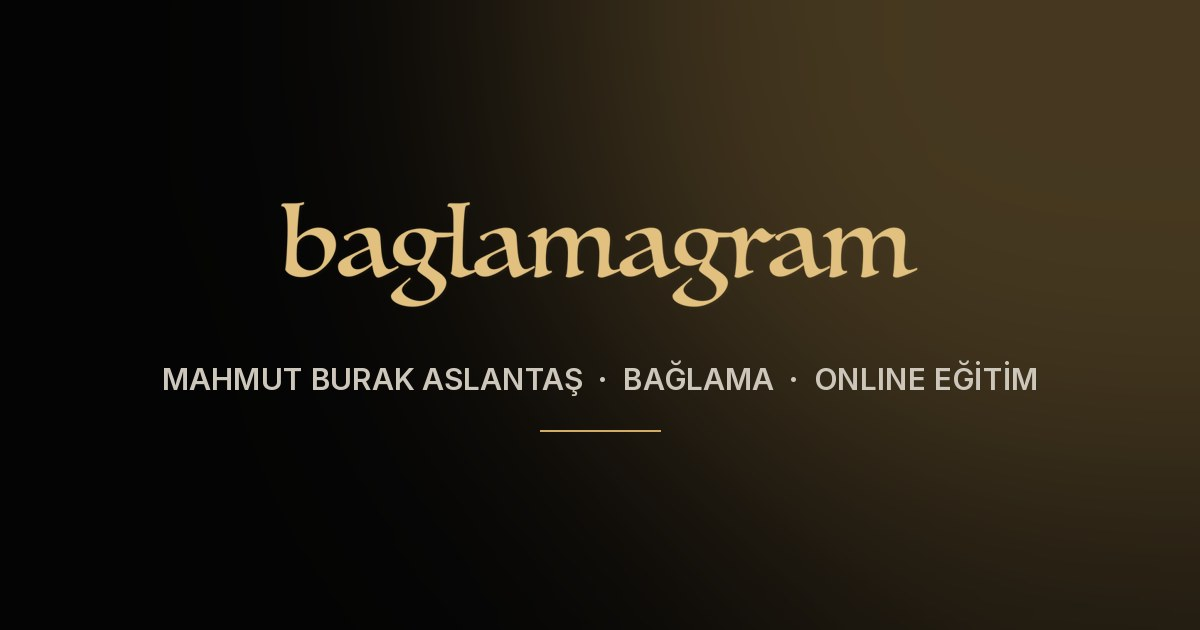
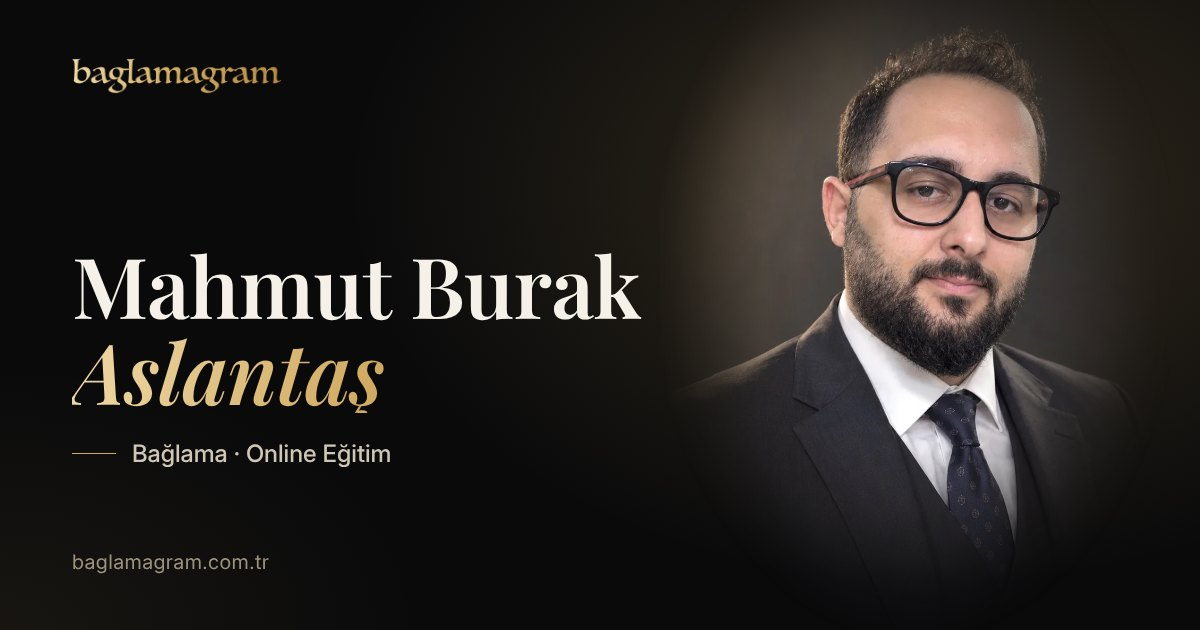
Fotoğraflar ve konser afişleri siteye taşındı; ana sayfa portresi, sayaç şeridinde online dersin artıları
- Ana sayfa: yelekli-kravatlı portre çerçevede, kenarları saydam; üstteki etiket satırı kaldırıldı
- 20+ ve 10+ kaldırıldı; 500+ solda, sağında online dersin üç artısı (4 dil)
- Hakkında: bağlamalı siyah-beyaz fotoğraf (görseldeki 'Lorem Ipsum' yazısı temizlendi); TRT Gençlik Korosu (2024)
- Konserler: 5 afiş yerelde (WebP, iki boyut), geçmiş konserlerde tarih
- Paylaşım görseli (og.jpg) portreyle yenilendi
- Telefonda çerçeveli kutular artık ekran kenarına yapışmıyor

Claude-Session: https://claude.ai/code/session_01Na55R1es2Cb35B1uihy8Qf

diff --git a/site/src/data/about.ts b/site/src/data/about.ts
@@ -5,6 +5,7 @@ type About = {
   title: string;
   p: string[];
   careerTitle: string;
+  photoAlt: string;
   career: [string, string][];
   projectsTitle: string;
   projects: [string, string][];
@@ -17,13 +18,14 @@ export const BIRTH = '2002-02-08';
 export const ABOUT: Record<Lang, About> = {
   tr: {
     title: 'Hakkında',
+    photoAlt: 'Mahmut Burak Aslantaş bağlama çalarken',
     p: [
       'Mahmut Burak Aslantaş, 8 Şubat 2002’de Birecik’te dünyaya gelmiştir ve {age} yaşındadır. Müzik yolculuğuna çocuk yaşlarında halk eğitim merkezinde bağlama ile başlamıştır. Lise eğitimini Mehmet Adil Çulcuoğlu Anadolu Lisesi’nde tamamlamış, 2021 yılında Aydın Adnan Menderes Üniversitesi Müzik Öğretmenliği bölümünü kazanmıştır. Öğrencilik yıllarında okulun pek çok projesinde ve konserinde yer almıştır.',
       '2024 yılında TRT Türk Halk Müziği Gençlik Korosu’na bağlama icracısı olarak katılmıştır. 14 Kasım 2025’te TRT Türkü’de yayınlanan “Genç Nesilden Türküler” programına konuk sanatçı olarak katılmış, 17 Aralık 2025’te piyanist Elzė Markevičiūtė ile “East to West” projesinin ilk konserini vermiştir. Aslantaş müziği yalnızca bir ses dizisi olarak değil, kültürler arasında bir köprü olarak görür. Amatör olarak şiirle de uğraşan Aslantaş, şarkı sözü ve yeni besteler üzerinde çalışmalarını sürdürmektedir.',
     ],
     careerTitle: 'Kariyer özeti',
     career: [
-      ['TRT Gençlik Korosu', 'Bağlama icracısı olarak koro bünyesinde aktif görev.'],
+      ['TRT Gençlik Korosu (2024)', 'Bağlama icracısı olarak koro bünyesinde aktif görev.'],
       ['Katıldığı programlar', 'TRT Türkü “Genç Nesilden Türküler”: 17 Mayıs 2025 (orkestra) ve 14 Kasım 2025 (konuk sanatçı); “Türkülerin Genç Yıldızları” (8 Mart 2026).'],
     ],
     projectsTitle: 'Sanat projeleri',
@@ -42,13 +44,14 @@ export const ABOUT: Record<Lang, About> = {
   },
   en: {
     title: 'About',
+    photoAlt: 'Mahmut Burak Aslantaş playing the bağlama',
     p: [
       'Mahmut Burak Aslantaş was born on 8 February 2002 in Birecik and is {age} years old. He began his musical journey on the bağlama as a child at a public education centre. He finished high school at Mehmet Adil Çulcuoğlu Anatolian High School and in 2021 was admitted to the Music Teacher Education programme at Aydın Adnan Menderes University. As a student he took part in many of the university’s projects and concerts.',
       'In 2024 he joined the TRT Turkish Folk Music Youth Choir as a bağlama player. On 14 November 2025 he appeared as a guest artist on “Songs from the Young Generation” on TRT Türkü, and on 17 December 2025 he gave the first concert of the “East to West” project with pianist Elzė Markevičiūtė. Aslantaş sees music not merely as a sequence of sounds but as a bridge between cultures. He also writes poetry as an amateur and continues to work on lyrics and new compositions.',
     ],
     careerTitle: 'Career summary',
     career: [
-      ['TRT Youth Choir', 'Active member of the choir as a bağlama player.'],
+      ['TRT Youth Choir (2024)', 'Active member of the choir as a bağlama player.'],
       ['TV programmes', 'TRT Türkü “Songs from the Young Generation”: 17 May 2025 (orchestra) and 14 November 2025 (guest artist); “Young Stars of Türkü” (8 March 2026).'],
     ],
     projectsTitle: 'Art projects',
@@ -67,13 +70,14 @@ export const ABOUT: Record<Lang, About> = {
   },
   de: {
     title: 'Über mich',
+    photoAlt: 'Mahmut Burak Aslantaş an der Bağlama',
     p: [
       'Mahmut Burak Aslantaş wurde am 8. Februar 2002 in Birecik geboren und ist {age} Jahre alt. Seine musikalische Reise begann er als Kind an einem Volksbildungszentrum mit der Bağlama. Das Abitur machte er am Mehmet-Adil-Çulcuoğlu-Gymnasium, 2021 wurde er im Studiengang Musiklehramt an der Aydın-Adnan-Menderes-Universität aufgenommen. Während des Studiums wirkte er bei vielen Projekten und Konzerten der Universität mit.',
       '2024 trat er dem TRT-Jugendchor für türkische Volksmusik als Bağlama-Spieler bei. Am 14. November 2025 war er Gastkünstler in der Sendung „Lieder der jungen Generation“ auf TRT Türkü, am 17. Dezember 2025 gab er mit der Pianistin Elzė Markevičiūtė das erste Konzert des Projekts „East to West“. Für Aslantaş ist Musik nicht bloß eine Abfolge von Tönen, sondern eine Brücke zwischen den Kulturen. Er schreibt außerdem als Amateur Gedichte und arbeitet weiter an Liedtexten und neuen Kompositionen.',
     ],
     careerTitle: 'Werdegang',
     career: [
-      ['TRT-Jugendchor', 'Aktives Mitglied des Chors als Bağlama-Spieler.'],
+      ['TRT-Jugendchor (2024)', 'Aktives Mitglied des Chors als Bağlama-Spieler.'],
       ['Fernsehsendungen', 'TRT Türkü „Lieder der jungen Generation“: 17. Mai 2025 (Orchester) und 14. November 2025 (Gastkünstler); „Junge Stars des Türkü“ (8. März 2026).'],
     ],
     projectsTitle: 'Kunstprojekte',
@@ -92,13 +96,14 @@ export const ABOUT: Record<Lang, About> = {
   },
   ru: {
     title: 'Обо мне',
+    photoAlt: 'Махмут Бурак Асланташ играет на багламе',
     p: [
       'Махмут Бурак Асланташ родился 8 февраля 2002 года в Биреджике; ему {age}. Музыкальный путь он начал ребёнком — с багламы в центре народного образования. Окончил Анатолийский лицей имени Мехмета Адиля Чулджуоглу, а в 2021 году поступил на отделение музыкальной педагогики Университета Айдын Аднан Мендерес. В студенческие годы участвовал во многих проектах и концертах университета.',
       'В 2024 году он вошёл в Молодёжный хор турецкой народной музыки TRT как исполнитель на багламе. 14 ноября 2025 года выступил приглашённым артистом в программе «Песни молодого поколения» на TRT Türkü, а 17 декабря 2025 года вместе с пианисткой Эльзе Маркевичюте дал первый концерт проекта «East to West». Для Асланташа музыка — не просто последовательность звуков, а мост между культурами. Он также пишет стихи как любитель и продолжает работать над текстами песен и новыми композициями.',
     ],
     careerTitle: 'Карьера',
     career: [
-      ['Молодёжный хор TRT', 'Постоянный участник хора как исполнитель на багламе.'],
+      ['Молодёжный хор TRT (2024)', 'Постоянный участник хора как исполнитель на багламе.'],
       ['Телепрограммы', 'TRT Türkü «Песни молодого поколения»: 17 мая 2025 (оркестр) и 14 ноября 2025 (приглашённый артист); «Молодые звёзды тюркю» (8 марта 2026).'],
     ],
     projectsTitle: 'Творческие проекты',

diff --git a/site/src/i18n/ui.ts b/site/src/i18n/ui.ts
@@ -36,15 +36,18 @@ const tr = {
   'common.playVideo': 'Videoyu oynat',
 
   // Ana sayfa
-  'home.eyebrow': 'Bağlama · Türk Halk Müziği · Müzik Eğitimi',
   'home.quote': 'Sanatsız kalan bir milletin hayat damarlarından biri kopmuş demektir.',
   'home.quoteAuthor': 'Mustafa Kemal Atatürk',
   'home.ctaEdu': 'Online Eğitime Başla',
   'home.ctaConcerts': 'Konserleri Keşfet',
   'home.badge': 'TRT THM Gençlik Korosu',
   'home.stat.lessons': 'saat online ders',
-  'home.stat.works': 'özgün eser ve şiir',
-  'home.stat.stage': 'sahne performansı',
+  'home.why.1.t': 'Yol yok, zaman kaybı yok',
+  'home.why.1.d': 'Ders evinde; yolda geçecek vakit çalışmaya kalır.',
+  'home.why.2.t': 'Nerede olursan ol',
+  'home.why.2.d': 'Türkiye’den ya da yurt dışından, internet olan her yerden katıl.',
+  'home.why.3.t': 'Sana göre program',
+  'home.why.3.d': 'Ders saatini birlikte seçeriz, tempoyu sen belirlersin.',
   'home.edu.eyebrow': 'Online Eğitim',
   'home.edu.title': 'Bağlamayı evinden, ustasından öğren',
   'home.edu.text': 'Birebir ve grup dersleri, ödev kayıtları, ders tekrarları, pratik araçları ve kulak eğitimi oyunları tek bir yerde. Telefonda uygulamadan, bilgisayarda web’den.',
@@ -195,15 +198,18 @@ const en: Dict = {
   'common.noResult': 'No results found.',
   'common.onlyTurkish': 'This content is in Turkish.',
   'common.playVideo': 'Play video',
-  'home.eyebrow': 'Bağlama · Turkish Folk Music · Music Education',
   'home.quote': 'A nation that has lost its art has lost one of its lifelines.',
   'home.quoteAuthor': 'Mustafa Kemal Atatürk',
   'home.ctaEdu': 'Start Online Lessons',
   'home.ctaConcerts': 'Discover Concerts',
   'home.badge': 'TRT Turkish Folk Music Youth Choir',
   'home.stat.lessons': 'hours of online lessons',
-  'home.stat.works': 'original works and poems',
-  'home.stat.stage': 'stage performances',
+  'home.why.1.t': 'No commute, no lost time',
+  'home.why.1.d': 'Lessons at home; the time you’d spend on the road goes into practice.',
+  'home.why.2.t': 'Wherever you are',
+  'home.why.2.d': 'Join from Türkiye or abroad, anywhere with an internet connection.',
+  'home.why.3.t': 'A schedule that fits you',
+  'home.why.3.d': 'We choose the lesson times together; you set the pace.',
   'home.edu.eyebrow': 'Online Lessons',
   'home.edu.title': 'Learn the bağlama from home, from a master',
   'home.edu.text': 'One-to-one and group lessons, homework recordings, lesson replays, practice tools and ear-training games in one place. In the app on your phone, on the web on your computer.',
@@ -343,15 +349,18 @@ const de: Dict = {
   'common.noResult': 'Keine Ergebnisse gefunden.',
   'common.onlyTurkish': 'Dieser Inhalt ist auf Türkisch.',
   'common.playVideo': 'Video abspielen',
-  'home.eyebrow': 'Bağlama · Türkische Volksmusik · Musikpädagogik',
   'home.quote': 'Ein Volk ohne Kunst hat eine seiner Lebensadern verloren.',
   'home.quoteAuthor': 'Mustafa Kemal Atatürk',
   'home.ctaEdu': 'Online-Unterricht starten',
   'home.ctaConcerts': 'Konzerte entdecken',
   'home.badge': 'TRT-Jugendchor für türkische Volksmusik',
   'home.stat.lessons': 'Stunden Online-Unterricht',
-  'home.stat.works': 'eigene Werke und Gedichte',
-  'home.stat.stage': 'Bühnenauftritte',
+  'home.why.1.t': 'Kein Weg, keine verlorene Zeit',
+  'home.why.1.d': 'Unterricht zu Hause – die Zeit für den Weg bleibt fürs Üben.',
+  'home.why.2.t': 'Egal, wo du bist',
+  'home.why.2.d': 'Aus der Türkei oder dem Ausland, überall mit Internetverbindung.',
+  'home.why.3.t': 'Ein Plan, der zu dir passt',
+  'home.why.3.d': 'Die Stundenzeiten legen wir gemeinsam fest, das Tempo bestimmst du.',
   'home.edu.eyebrow': 'Online-Unterricht',
   'home.edu.title': 'Bağlama lernen – von zu Hause, beim Meister',
   'home.edu.text': 'Einzel- und Gruppenunterricht, Hausaufgaben-Aufnahmen, Stundenwiederholungen, Übungswerkzeuge und Gehörbildungsspiele an einem Ort. Auf dem Handy in der App, am Computer im Web.',
@@ -491,15 +500,18 @@ const ru: Dict = {
   'common.noResult': 'Ничего не найдено.',
   'common.onlyTurkish': 'Этот материал на турецком языке.',
   'common.playVideo': 'Смотреть видео',
-  'home.eyebrow': 'Баглама · Турецкая народная музыка · Музыкальное образование',
   'home.quote': 'Народ, лишившийся искусства, потерял одну из своих жизненных артерий.',
   'home.quoteAuthor': 'Мустафа Кемаль Ататюрк',
   'home.ctaEdu': 'Начать онлайн-уроки',
   'home.ctaConcerts': 'Концерты',
   'home.badge': 'Молодёжный хор народной музыки TRT',
   'home.stat.lessons': 'часов онлайн-уроков',
-  'home.stat.works': 'авторских произведений и стихов',
-  'home.stat.stage': 'выступлений на сцене',
+  'home.why.1.t': 'Без дороги и потери времени',
+  'home.why.1.d': 'Урок дома: время, которое ушло бы на дорогу, остаётся на занятия.',
+  'home.why.2.t': 'Где бы вы ни были',
+  'home.why.2.d': 'Из Турции или из-за рубежа — везде, где есть интернет.',
+  'home.why.3.t': 'Удобное расписание',
+  'home.why.3.d': 'Время уроков выбираем вместе, темп задаёте вы.',
   'home.edu.eyebrow': 'Онлайн-уроки',
   'home.edu.title': 'Учитесь играть на багламе дома — у мастера',
   'home.edu.text': 'Индивидуальные и групповые уроки, записи домашних заданий, повторы уроков, инструменты для занятий и игры для развития слуха — всё в одном месте. На телефоне в приложении, на компьютере в браузере.',

diff --git a/site/src/data/concerts.ts b/site/src/data/concerts.ts
@@ -1,10 +1,11 @@
 // Konserler. Yeni konser eklemek için PAST listesine ekle; öne çıkan konser FEATURED.
 import type { Lang } from '../i18n';
+import { poster, type Pic } from './site';
 type L = Record<Lang, string>;
 
 export const CONCERT_FEATURED = {
   title: 'East to West',
-  poster: 'https://i.hizliresim.com/6vp28ri.JPG',
+  poster: poster('east-to-west-2025'),
   youtube: 'q7fH0v_sgO8',
   date: { tr: '17 Aralık 2025', en: 'December 17, 2025', de: '17. Dezember 2025', ru: '17 декабря 2025' } as L,
   place: { tr: 'Aydın Adnan Menderes Üniversitesi', en: 'Aydın Adnan Menderes University', de: 'Aydın-Adnan-Menderes-Universität', ru: 'Университет Айдын Аднан Мендерес' } as L,
@@ -16,10 +17,11 @@ export const CONCERT_FEATURED = {
   } as L,
 };
 
-export const CONCERTS_PAST: { title: L; poster: string }[] = [
-  { title: { tr: 'Yıldızların Altında', en: 'Under the Stars', de: 'Unter den Sternen', ru: 'Под звёздами' }, poster: 'https://i.hizliresim.com/hcxh8kf.JPG' },
-  { title: { tr: 'Sanat Müziği Korosu', en: 'Turkish Art Music Choir', de: 'Chor für türkische Kunstmusik', ru: 'Хор турецкой классической музыки' }, poster: 'https://i.hizliresim.com/bc69112.JPG' },
-  { title: { tr: 'East to West · Aydın', en: 'East to West · Aydın', de: 'East to West · Aydın', ru: 'East to West · Айдын' }, poster: 'https://i.hizliresim.com/6vp28ri.JPG' },
-  { title: { tr: 'Bahar Konseri', en: 'Spring Concert', de: 'Frühlingskonzert', ru: 'Весенний концерт' }, poster: 'https://i.hizliresim.com/8u4tkrb.JPG' },
-  { title: { tr: 'ADÜ Ses Finali', en: 'ADÜ Voice Final', de: 'ADÜ-Gesangsfinale', ru: 'Финал конкурса «Голос АДУ»' }, poster: 'https://i.hizliresim.com/2hvoqlr.jpg' },
+// Geçmiş konserler (yeniden eskiye). Tarih ISO biçiminde; ay+yıl yeterliyse day: false.
+export const CONCERTS_PAST: { title: L; poster: Pic; date: string; day?: boolean }[] = [
+  { title: { tr: 'East to West · Aydın', en: 'East to West · Aydın', de: 'East to West · Aydın', ru: 'East to West · Айдын' }, poster: poster('east-to-west-2025'), date: '2025-12-17' },
+  { title: { tr: 'Türk Sanat Müziği Korosu · 28. ADÜFEST', en: 'Turkish Art Music Choir · 28th ADÜFEST', de: 'Chor für türkische Kunstmusik · 28. ADÜFEST', ru: 'Хор турецкой классической музыки · 28-й ADÜFEST' }, poster: poster('tsm-korosu-2025'), date: '2025-05-15' },
+  { title: { tr: 'Türk Sanat Müziği Korosu · 27. ADÜFEST', en: 'Turkish Art Music Choir · 27th ADÜFEST', de: 'Chor für türkische Kunstmusik · 27. ADÜFEST', ru: 'Хор турецкой классической музыки · 27-й ADÜFEST' }, poster: poster('tsm-korosu-2024'), date: '2024-05-15' },
+  { title: { tr: 'Yıldızların Altında', en: 'Under the Stars', de: 'Unter den Sternen', ru: 'Под звёздами' }, poster: poster('yildizlarin-altinda-2024'), date: '2024-05-08' },
+  { title: { tr: 'ADÜ Ses Finali', en: 'ADÜ Voice Final', de: 'ADÜ-Gesangsfinale', ru: 'Финал конкурса «Голос АДУ»' }, poster: poster('adu-ses-2024'), date: '2024-05-01', day: false },
 ];

diff --git a/site/src/data/site.ts b/site/src/data/site.ts
@@ -5,11 +5,25 @@ export const SOCIAL = [
   { name: 'Spotify', icon: 'spotify', url: 'https://open.spotify.com/intl-tr/artist/5rXy7D9yXqn3kOvLYXDxft' },
 ];
 
-// Görseller şimdilik hizliresim.com üzerinde
+// Fotoğraflar ve afişler sitenin kendi sunucusunda (public/img). Yeni boyut gerekirse
+// aynı adla -480/-960 gibi WebP dosyaları eklenir.
+export type Pic = { src: string; srcset: string; w: number; h: number; full: string };
+const pic = (base: string, small: number, large: number, w: number, h: number, full = `${base}-${large}.webp`): Pic => ({
+  src: `${base}-${large}.webp`,
+  srcset: `${base}-${small}.webp ${small}w, ${base}-${large}.webp ${large}w`,
+  w,
+  h,
+  full,
+});
+
 export const IMG = {
-  portrait: 'https://i.hizliresim.com/olj28le.jpg',
-  eastToWest: 'https://i.hizliresim.com/6vp28ri.JPG',
+  // Ana sayfa: yelekli, kravatlı portre
+  portrait: pic('/img/portre', 480, 960, 960, 1280, '/img/portre.jpg'),
+  // Hakkında: bağlamayla siyah-beyaz fotoğraf
+  baglama: pic('/img/baglama', 720, 1280, 1280, 1280, '/img/baglama.jpg'),
 };
+
+export const poster = (name: string): Pic => pic(`/img/konser/${name}`, 480, 1131, 1131, 1600);
 
 export const INSTAGRAM = [
   'https://i.hizliresim.com/ne9q1cu.jpg',
